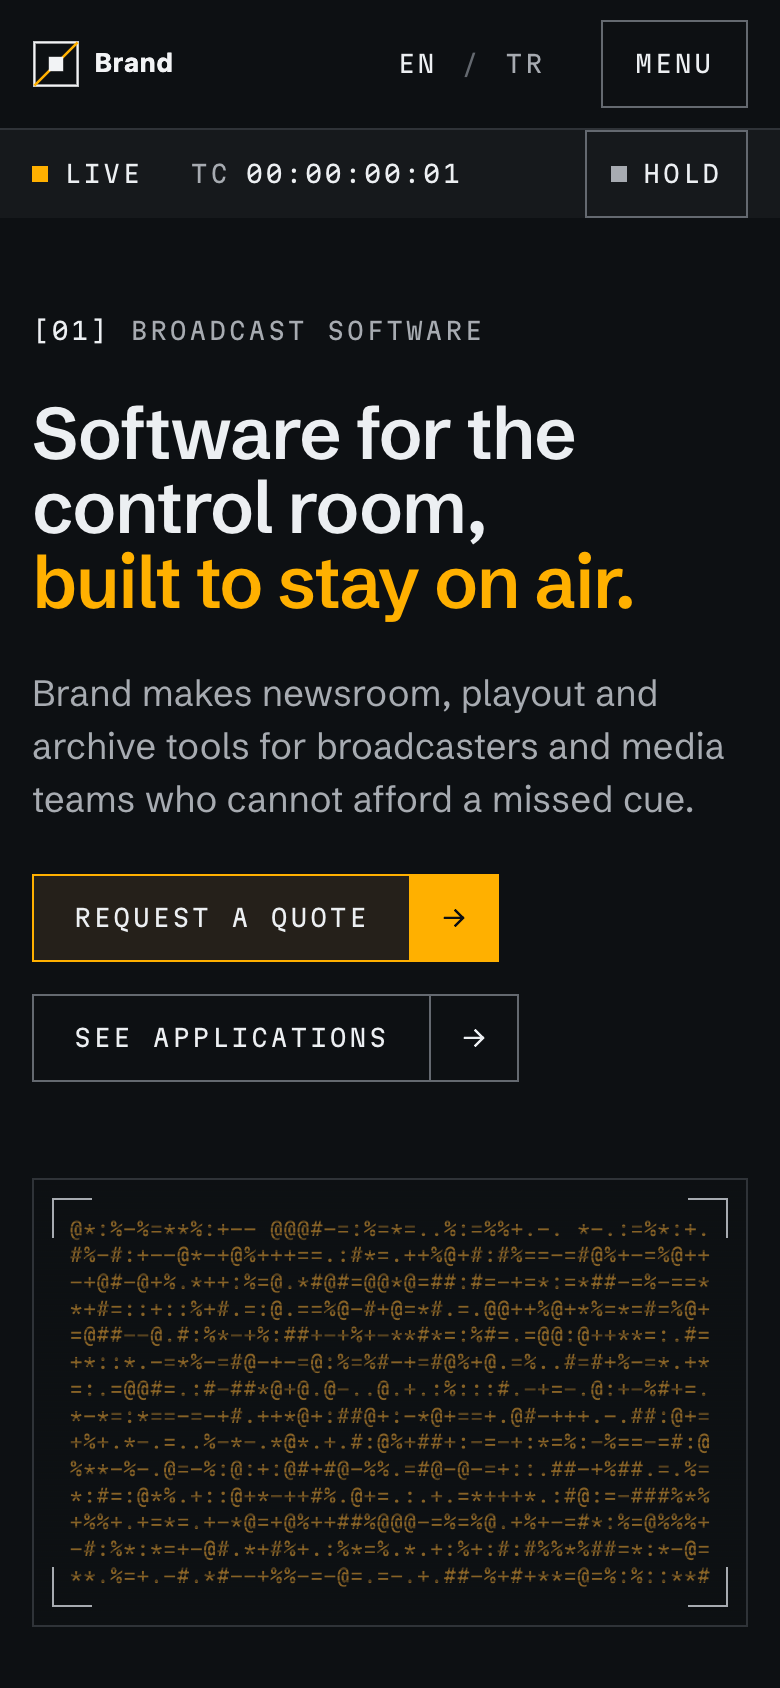
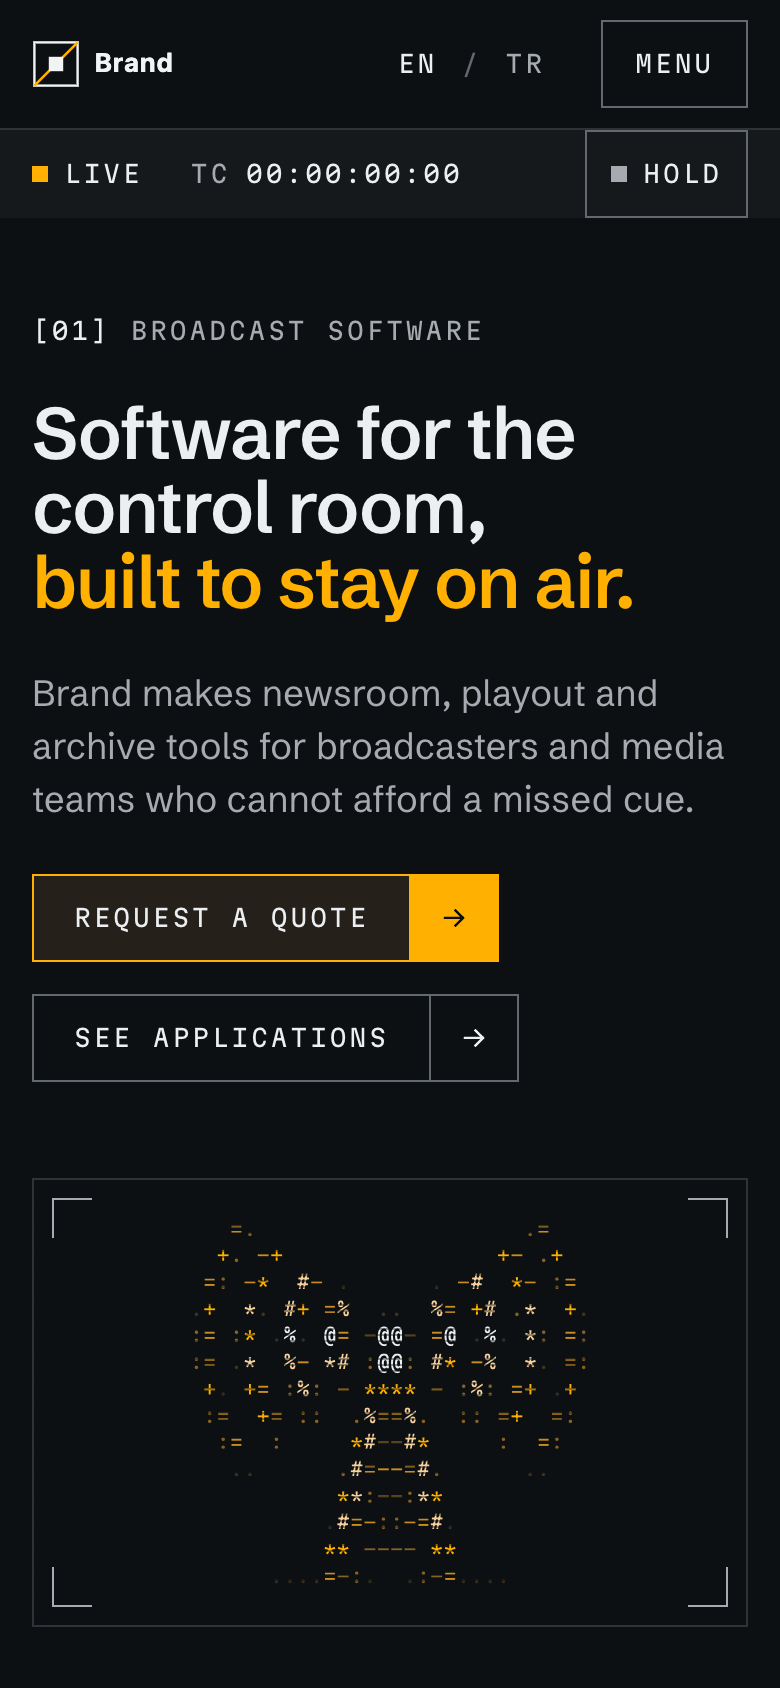
docs: refresh mobile screenshot and admin note

Changed region(s): [[0.0923, 0.7085, 0.9231, 0.955], [0.5538, 0.0924, 0.5846, 0.1232]]

diff --git a/README.md b/README.md
@@ -97,7 +97,7 @@ pnpm format     # Biome check with fixes
 
 ## Content editing
 
-Open `/admin/` in a Chromium-based browser and sign in with GitHub. Edit pages, applications, navigation, UI strings or site settings in English and Turkish.
+Open `/admin/` and sign in with GitHub (any modern browser; only the optional "Work with Local Repository" mode needs Chromium). Edit pages, applications, navigation, UI strings or site settings in English and Turkish.
 
 | Role | Can do |
 |---|---|
